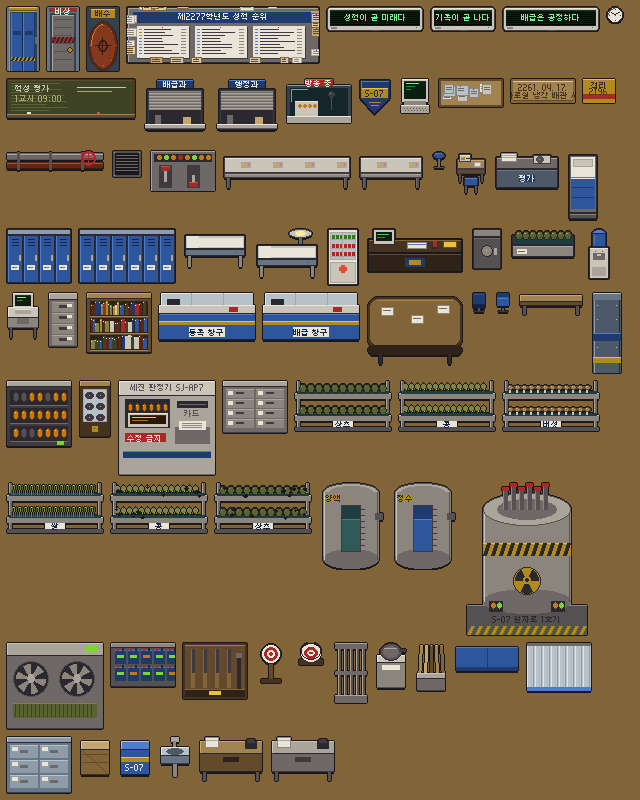
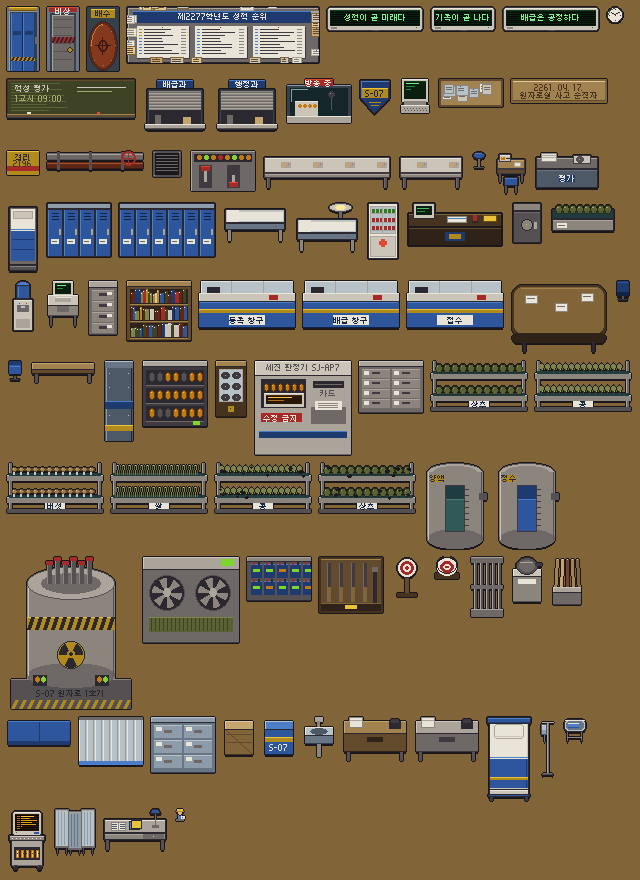
탄생 컷신에 아기 되살림: 견본 의무실 소품(아기를 안은 분만 침대 등)과 소품 상태 그림
- 세로 분만 침대(빈 침대 / 윤정인이 강보의 아기를 안고 누운 그림), 링거대, 신생아 바구니, 등록 단말 수레(6번 칸 점등), 칸막이,
  의무관 책상, 흔들인형을 게임 소품으로
- 소품 상태 그림 + InteriorMap.set_prop_state, 연출 pose in_bed · lamp가 그림을 바꾼다
- 의무실 V-08 배치를 견본과 같게, 컷신 녹화 GIF 갱신

Claude-Session: https://claude.ai/code/session_01AB2Pu8KtgEfTfn2XzBJpW9

diff --git a/tools/pipeline/mapgen_s07.py b/tools/pipeline/mapgen_s07.py
@@ -104,17 +104,20 @@ def v08():
     m.door(7, 10, label="의무실"); m.door(20, 10, label="진료소"); m.door(32, 10, label="약품")
     m.door(5, 17, label="격리"); m.arch(18, 20, 17); m.door(33, 17, label="안치")
     m.exit_s(19, 27, "V-01")
-    # 의무실
-    m.p("delivery_bed", 5, 5); m.p("med_cabinet", 1, 3); m.p("sink", 12, 3); m.p("terminal_desk", 10, 3)
-    m.p("curtain", 1, 8); m.p("file_cabinet", 11, 3); m.p("wall_clock", 4, 1); m.p("chair_n", 9, 7)
-    m.c("mark bed 6 5 S"); m.c("mark bed_side 8 5 W"); m.c("mark nurse 4 5 E"); m.c("mark door 7 10 N")
-    m.c("mark terminal 10 4 N"); m.c("mark mother_end 6 6 S"); m.c("mark center 6 7 S")
-    m.c('text 10 3 "세진 SJ-RT7 등록 단말이 수레에 실려 있다. 6번 칸 램프는 꺼져 있다."')
+    # 의무실 — 견본 21_scene_birth 배치: 약장 둘(흔들인형)·세면대·링거대·분만 침대·아기 바구니·등록 단말 수레·칸막이·의무관 책상
+    m.p("med_cabinet", 1, 3); m.p("med_cabinet", 2, 3); m.p("bobblehead", 2, 1); m.p("sink", 4, 3); m.p("wall_clock", 9, 1)
+    m.p("iv_stand", 5, 4); m.p("birth_bed", 6, 4); m.p("bassinet", 7, 6); m.p("terminal_cart", 8, 4)
+    m.p("screen_partition", 11, 3); m.p("exam_bed", 10, 5); m.p("clinic_desk", 2, 7); m.p("stool", 3, 8); m.p("file_cabinet", 12, 3)
+    m.c("mark bed 6 5 S"); m.c("mark nurse 5 5 E"); m.c("mark bed_side 9 5 W"); m.c("mark terminal 8 5 N"); m.c("mark door 7 10 N")
+    m.c("mark mother_end 6 7 S"); m.c("mark center 6 8 S")
+    m.c('text 8 4 "세진 SJ-RT7 진공관 등록 단말. 6번 칸 \'관제망 회선 확인\'만 입력할 수 없게 막혀 있다."')
+    m.c('text 6 4 "분만 침대. 시트에서 소독약 냄새가 난다." h=2')
+    m.c('text 7 6 "신생아 바구니. 볼트 청색 담요가 개어 있다."')
     m.c('text 1 3 "약장. 붕대, 소독약, 이름표가 바랜 앰풀이 줄지어 있다."')
+    m.c('text 2 3 "약장 위에 흔들인형 하나가 고개를 끄덕이고 있다. 안전모를 쓰고 구급함을 든 든든이다."')
     # 진료소
     m.p("exam_bed", 15, 4); m.p("exam_bed", 15, 8); m.p("curtain", 18, 4); m.p("med_cabinet", 24, 3); m.p("med_cabinet", 25, 3)
     m.p("desk", 21, 7); m.p("chair_n", 22, 8); m.p("wall_terminal", 20, 1); m.p("emblem", 17, 1)
-    m.c('text 24 3 "약장 위에 흔들인형 하나가 고개를 끄덕이고 있다. 의사 가운을 입은 든든이다." w=2')
     # 약품 창고
     for x in (27, 29, 31):
         m.p("crate_metal", x, 3)

diff --git a/art/tools/scene_birth.py b/art/tools/scene_birth.py
@@ -226,9 +226,10 @@ def clinic_desk():
     return img
 
 
-def birth_bed(jeongin, look="calm"):
+def birth_bed(jeongin, look="calm", inked=True):
     """V-08 분만 침대 (top-down, head to the north): vault-blue tube frame, white sheet, 윤정인 lying with the
-    swaddled baby on her chest under her arms; blanket with the S-07 yellow stripe. 44x84."""
+    swaddled baby on her chest under her arms; blanket with the S-07 yellow stripe. 44x84.
+    jeongin=None: 빈 침대(베개 + 반듯하게 갠 이불, 게임 소품 birth_bed). inked=False: 먹선 없이(게임 소품 내보내기가 두른다)."""
     w, h = 44, 84
     img = Image.new("RGBA", (w, h), (0, 0, 0, 0))
     d = ImageDraw.Draw(img)
@@ -244,6 +245,12 @@ def birth_bed(jeongin, look="calm"):
     # pillow
     d.rounded_rectangle([7, 7, w - 8, 21], radius=3, fill=C("P09"), outline=C("P07"))
     d.line([9, 19, w - 10, 19], fill=C("P08"))
+    if jeongin is None:                                                # 빈 침대: 갠 이불만
+        d.rectangle([3, 40, w - 4, 70], fill=C("P45")); d.line([3, 40, w - 4, 40], fill=C("P46"))
+        d.line([3, 41, w - 4, 41], fill=C("P09")); d.line([w - 5, 42, w - 5, 70], fill=C("P44"))
+        d.rectangle([3, 60, w - 4, 62], fill=C("P48")); d.line([3, 60, w - 4, 60], fill=C("P49"))
+        d.line([2, 40, 2, 70], fill=C("P02")); d.line([w - 3, 40, w - 3, 70], fill=C("P02"))
+        return ink(img) if inked else img
     # 아이작풍 큰 머리를 베개에(얼굴 그림과 같은 머리), 풀린 머리카락이 베개 위로 퍼진다
     hd = jeongin.crop((6, 7, 34, 35))
     hx, hy = (w - 28) // 2, -1
@@ -277,7 +284,7 @@ def birth_bed(jeongin, look="calm"):
     d.line([w - 9, 30, bx + 6, by + 4], fill=C("P14")); d.line([w - 9, 31, bx + 6, by + 5], fill=C("P12"))
     d.rectangle([bx - 6, by + 4, bx - 4, by + 6], fill=C("S2.4")); d.point((bx - 6, by + 6), fill=C("S2.2"))
     d.rectangle([bx + 5, by + 3, bx + 7, by + 5], fill=C("S2.4")); d.point((bx + 7, by + 5), fill=C("S2.2"))
-    return ink(img)
+    return ink(img) if inked else img
 
 
 # ------------------------------------------------------------------------------------------------ actors

diff --git a/art/tools/props_s07.py b/art/tools/props_s07.py
@@ -697,6 +697,25 @@ def desk(kind="wood", n=2):
     return im
 
 
+# ================================================================ 의무실 탄생 장면 소품(견본 21_scene_birth에서 옮김)
+def _sb():
+    import scene_birth as SB
+    return SB
+
+
+def _jeongin_head(face="idle"):
+    import chibi as K
+    import json as _j
+    npcs = _j.load(open(os.path.join(os.path.dirname(os.path.dirname(os.path.dirname(os.path.abspath(__file__)))),
+                                     "game", "data", "npcs.json")))["npcs"]
+    return K.head(K.Look.parse(npcs["C-001"]["look"]), "S", face)
+
+
+def birth_bed(occupied=False):
+    """분만 침대(세로, 머리가 북쪽). occupied: 윤정인이 강보에 싼 갓난아기(주인공)를 가슴에 안고 누운 그림."""
+    return _sb().birth_bed(_jeongin_head() if occupied else None, inked=False)
+
+
 # ================================================================ 등록부
 # (함수, 발 가로, 발 세로, 종류, down, 벽 소품 dx, dy)
 def _r(fn, fw, fh, kind="floor", down=2, dx=0, dy=0):
@@ -784,6 +803,19 @@ PROPS = {
     "sink": _r(sink, 1, 1, down=0),
     "desk": _r(desk, 2, 1, down=8),
     "desk_metal": _r(lambda: desk("metal"), 2, 1, down=8),
+    # 의무실(MQ-P1 S1): 견본 소품
+    "birth_bed": _r(lambda: birth_bed(False), 1, 2, down=6),
+    "iv_stand": _r(lambda: _sb().iv_stand(), 0, 0, "deco"),
+    "bassinet": _r(lambda: _sb().bassinet(), 1, 1, down=-2),
+    "terminal_cart": _r(lambda: _sb().terminal_cart(False, 0), 1, 1, down=2),
+    "screen_partition": _r(lambda: _sb().screen_partition(), 1, 1, down=0),
+    "clinic_desk": _r(lambda: _sb().clinic_desk(), 2, 1, down=4),
+    "bobblehead": _r(lambda: _sb().bobblehead(), 1, 0, "wall", dx=11, dy=27),
+}
+# 상태 그림(연출이 바꾼다: InteriorMap.set_prop_state). 이름 → {상태: 그리기 함수}
+PROP_STATES = {
+    "birth_bed": {"occupied": lambda: birth_bed(True)},
+    "terminal_cart": {"lit": lambda: _sb().terminal_cart(True, 0)},
 }
 # 문 열린 그림(문 소품의 둘째 칸)
 DOOR_OPEN = {"door_slide": lambda: door(None, "open"), "door_hatch": lambda: door(None, "open", "hatch"),

diff --git a/tools/pipeline/prop_export.py b/tools/pipeline/prop_export.py
@@ -3,7 +3,7 @@
 메타(이름마다): rect [x, y, w, h](아틀라스 안), foot [가로, 세로](막히는 칸), kind(floor·wall·deco·door), off [x, y]
   — 놓는 칸의 왼쪽 위에서 그림 왼쪽 위까지 px. floor·deco: 발 칸 아래 변 + down에 그림 아래 변을 맞춘다.
   wall: 벽면 윗칸 왼쪽 위 + (dx, dy). door: 1칸 × 2칸 벽면(윗칸 기준), open = 열린 그림 rect.
-  gear_door: 프레임 8장(frames)."""
+  gear_door: 프레임 8장(frames). states: 연출이 바꾸는 상태 그림(예: birth_bed occupied, terminal_cart lit)."""
 import os, sys, json
 from PIL import Image
 
@@ -35,6 +35,8 @@ def main():
         items.append((n, outlined(r["fn"]())))
         if n in R.DOOR_OPEN:
             items.append((n + "#open", outlined(R.DOOR_OPEN[n]())))
+        for st, fn in R.PROP_STATES.get(n, {}).items():
+            items.append((f"{n}#{st}", outlined(fn())))
     W = 1024
     x = y = rowh = 0
     pos = {}
@@ -47,7 +49,7 @@ def main():
     atlas = Image.new("RGBA", (W, y + rowh), (0, 0, 0, 0))
     for k, im in items:
         atlas.alpha_composite(im, pos[k][:2])
-    bad = check(atlas, P.allowed_set("UI", "S3", "H1"))
+    bad = check(atlas, P.allowed_set("UI", *P.SKIN, *P.HAIR))          # 탄생 침대의 윤정인·아기 피부·머리색
     if bad:
         print("팔레트 밖 색:", bad[:5]); sys.exit(1)
     atlas.save(os.path.join(OUT, "s07_props.png"))
@@ -65,6 +67,8 @@ def main():
         e = {"rect": [x0, y0, w, h], "foot": [fw, fh], "kind": r["kind"], "off": off}
         if n + "#open" in pos:
             e["open"] = list(pos[n + "#open"])
+        for st in R.PROP_STATES.get(n, {}):
+            e.setdefault("states", {})[st] = list(pos[f"{n}#{st}"])
         if n == "gear_door":
             e["frames"] = [list(pos[f"gear_door#{f}"]) for f in range(R.GEAR_FRAMES)]
         meta[n] = e

diff --git a/game/STAGE_0.md b/game/STAGE_0.md
@@ -163,4 +163,9 @@
 - 미룬 것: 바깥 데크(정문 밖)·비상 배수 갱도 밖은 0-9·0-10 외부 맵과 함께. 터치의 조사 단추는 0-11 터치 HUD에서. 인물의 시대별
   배치(2258·2268·2274·2277)는 퀘스트 장면(0-6~0-9)에서 cond로 붙인다 — 지금 일과 인물은 cond 없이 서 있다.
 - 단위 시험 72개(맵 6개: 자료·출구·길·막힘·문·일과를 실제로 걸려 보기), 확인 4,096, 실패 0.
+- **탄생 컷신 아기(리드 지적 "아기 이미지가 없다")**: 게임으로 옮기며 빠진 견본(21_scene_birth) 소품을 되살렸다 — 세로 분만 침대
+  (빈 침대 + '윤정인이 강보에 싼 갓난아기를 가슴에 안고 누운' 상태 그림), 링거대, 신생아 바구니, 등록 단말 수레(6번 칸 점등 상태
+  그림), 칸막이, 의무관 책상, 약장 위 흔들인형. 소품 상태 그림(`states`)과 `InteriorMap.set_prop_state`를 두고, 연출 `pose ID in_bed`는
+  그 칸 침대를 누운 사람 그림으로 바꾸고 몸은 숨긴다(말풍선 자리는 남음), `lamp`는 장치를 켜진 그림으로 바꾼다. 의무실 배치를
+  견본과 같게 고쳤다. 녹화 `art/samples/21_scene_birth_ingame.gif`.
 
